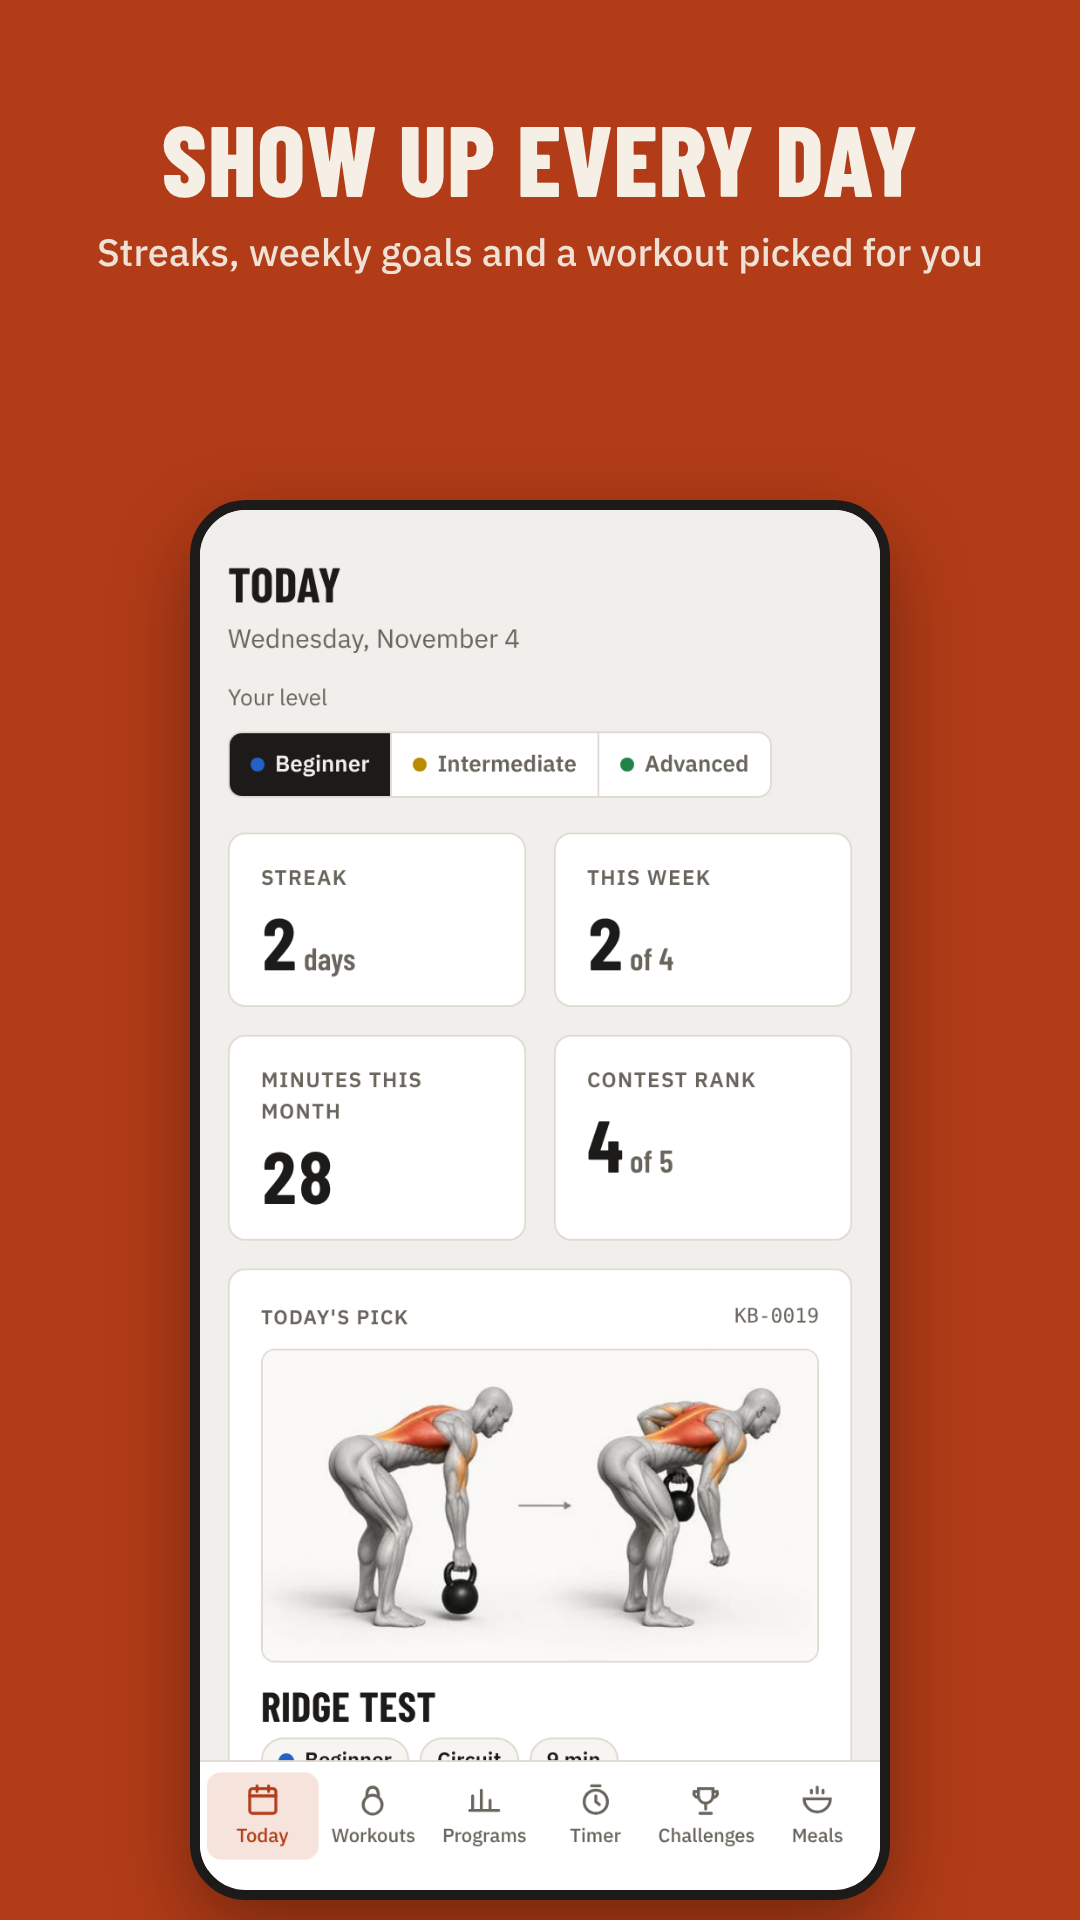
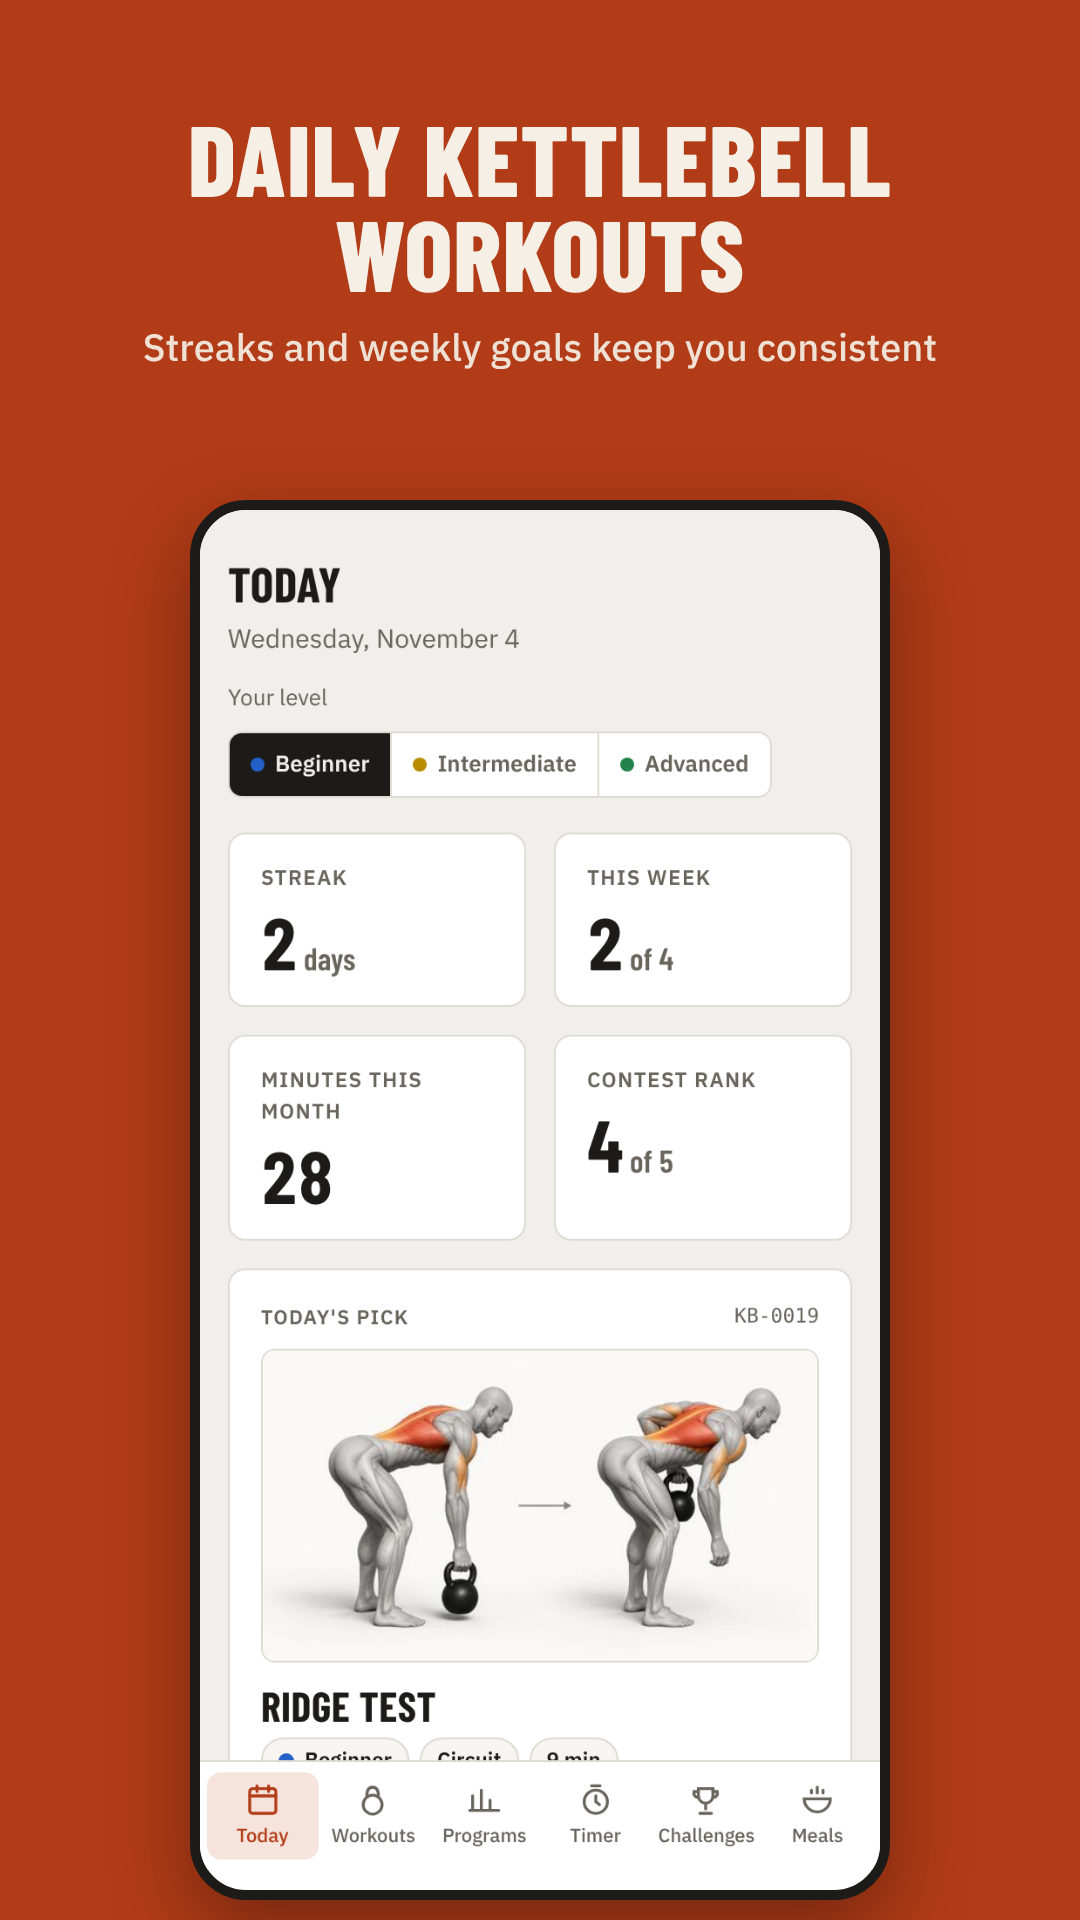
Store listing written for search, App Store copy and ranking plan
Keyword-targeted title, short and full description, search-term
screenshot headlines, App Store subtitle and keyword field, and
post-launch steps for growing search ranking.

Claude-Session: https://claude.ai/code/session_01TU5yxcE2K8n7eMQDtpSjSD

Changed region(s): [[0.0917, 0.0625, 0.9167, 0.1875]]

diff --git a/store/play/LISTING.md b/store/play/LISTING.md
@@ -1,57 +1,81 @@
 # BellForge: Google Play open testing
 
-Everything Play Console asks for to publish BellForge as a public beta (Open testing). Copy each section into the matching Play Console page.
+Everything Play Console asks for to publish BellForge as a public beta (Open testing), written for search, plus the App Store version and a plan for growing search ranking. Copy each section into the matching Play Console page.
 
 ---
 
 ## 1. Store listing (Grow users > Store presence > Main store listing)
 
-**App name** (30 max)
+Written for search. Google Play ranks apps using the **title, short description and full description**, so the main search terms appear in all three, worded naturally. Google penalizes keyword stuffing.
+
+**Target search terms**
+- **Primary:** kettlebell workout, kettlebell workouts, kettlebell
+- **Secondary:** home workout, kettlebell workout plan, workout timer, strength training
+- **Long-tail (less competition, where a new app can rank):** kettlebell muscle map, HIIT timer, EMOM, AMRAP, kettlebell swing, Turkish get-up, kettlebell challenge, fitness challenge with friends, beginner kettlebell, calisthenics, bodyweight workout, meal plan
+
+**App name** (30 max, the strongest ranking signal)
 ```
 BellForge: Kettlebell Workouts
 ```
 
-**Short description** (80 max)
+**Short description** (80 max, the second strongest signal)
 ```
-Kettlebell workouts with muscle maps, a guided timer and friend challenges.
+Kettlebell home workouts with muscle maps, a HIIT timer & fitness challenges
 ```
 
-**Full description** (4,000 max)
+**Full description** (4,000 max, fully indexed on Google Play)
 ```
-BellForge is a kettlebell training app built around one idea: show up, train well, and keep each other accountable.
+KETTLEBELL WORKOUTS FOR HOME, WITH A MUSCLE MAP FOR EVERY EXERCISE
 
-SEE EVERY MUSCLE YOU WORK
-Every move comes with a muscle map that highlights the primary and supporting muscles, plus form cues and the most common mistakes to avoid. 48 moves in all, from the deadlift and swing to the Turkish get-up, snatch and clean & jerk.
+BellForge is a kettlebell workout app for strength training at home or in the gym. Follow a kettlebell workout plan, time every session with a built-in HIIT timer, see exactly which muscles each move works, and stay accountable with fitness challenges you do with friends.
 
-200 KETTLEBELL WORKOUTS
-Beginner, intermediate and advanced sessions in six formats: circuits, EMOMs, AMRAPs, ladders, Tabatas and complexes. Filter by level, focus, length and equipment, and save your favorites for offline use.
+MUSCLE MAP FOR EVERY EXERCISE
+Every kettlebell exercise comes with a muscle map that highlights the primary and supporting muscles worked, plus form cues and the most common mistakes to avoid. Learn the kettlebell swing, goblet squat, deadlift, clean, press, snatch, Turkish get-up, windmill and more: 48 moves with clear muscle maps.
 
-A GUIDED SESSION TIMER
-Start any workout and BellForge walks you through it step by step: work and rest phases, audio countdowns, round tracking and the muscle map for the move you're on.
+200 KETTLEBELL WORKOUTS, BEGINNER TO ADVANCED
+Beginner kettlebell workouts, intermediate sessions and advanced kettlebell training, all in one library. Choose full body workouts, lower body, upper body, core or conditioning, in six formats: circuits, EMOM, AMRAP, ladders, Tabata and kettlebell complexes. Filter by level, focus, length and equipment, and save workouts for offline training.
 
-PROGRAMS THAT BUILD
-Follow a multi-week plan that gets harder week by week: Beginner Foundations, Swing to Snatch, Strength Builder, Conditioning Engine, Get-Up & Core and Advanced Iron.
+HIIT, EMOM & AMRAP WORKOUT TIMER
+Start any kettlebell workout and the guided workout timer walks you through it: work and rest intervals, audio countdowns, round tracking for AMRAPs, and the muscle map for the exercise you're on. Build your own interval timer for swings or any move.
 
-CHALLENGE YOUR FRIENDS
-Pick from 55 ready-made challenges, or build your own. Rank by sessions, minutes, streaks, team totals, weekends or specific moves, then invite friends and keep score together.
+KETTLEBELL WORKOUT PLANS AND PROGRAMS
+Follow a multi-week kettlebell program that gets harder week by week:
+- Beginner Foundations (4 weeks)
+- Swing to Snatch (6 weeks)
+- Strength Builder (8 weeks)
+- Conditioning Engine for fat loss (4 weeks)
+- Get-Up & Core (4 weeks)
+- Advanced Iron (8 weeks)
 
-NO BELL? NO PROBLEM
-A bonus library of 100 bodyweight workouts and 3 bodyweight programs, including Travel Training and First Pull-Up, keeps your streak alive on days without your kettlebell. Every move works with things you already have at home.
+FITNESS CHALLENGES WITH FRIENDS
+Accountability makes training stick. Pick from 55 ready-made fitness challenges, or build your own: most sessions, most minutes, longest streak, team totals, weekend warrior, or skill challenges like the Get-Up Ladder and Swing Specialist. Invite friends, track the leaderboard and keep each other consistent with streaks and weekly goals.
 
-MEAL PLANS FOR YOUR GOAL
-Set your goal and stats to get daily calorie and protein targets, then build a week of prepped meals that fits your diet and allergies. Monthly meal delivery is coming soon.
+BODYWEIGHT & CALISTHENICS BONUS
+No kettlebell today? 100 bodyweight workouts and calisthenics programs keep your streak alive: push-ups, squats, planks, burpees, pistol squats, pull-ups and more, plus Travel Training and First Pull-Up programs. Every move works with a chair, couch, table or wall at home.
 
-GEAR SHOP
-Need a kettlebell, pull-up bar or mat? Find the basics right in the app.
+MEAL PLAN & MACRO TARGETS
+Set your goal (lose fat, maintain or build muscle) to get daily calorie and protein targets, then build a weekly meal plan that fits your diet and allergies. Monthly prepped-meal delivery is coming soon.
 
-BETA NOTE
-BellForge is in public beta. Your workouts and progress are saved on your device. Friends, leaderboards and meal delivery use sample data while we build accounts and syncing. We'd love your feedback: tell us what's confusing, what's missing and what you'd pay for.
+GEAR GUIDE
+New to kettlebell training? Find the right kettlebell weight to start with, plus a pull-up bar, mat and other basics.
 
-Always warm up, use a weight you can control with good form, and talk to your doctor before starting a new training program.
+WHY BELLFORGE
+- Kettlebell workouts at home with just one bell
+- A muscle map for every exercise
+- Kettlebell workout plans that progress
+- HIIT, EMOM, AMRAP and Tabata workout timer
+- Fitness challenges and streaks with friends
+- Bodyweight and calisthenics workouts when you don't have a bell
+- Works offline, with no ads
+
+PUBLIC BETA
+BellForge is in public beta. Your workouts and progress are saved on your device. Friends, leaderboards and meal delivery use sample data while we build accounts and syncing. Tell us what you'd like next; your feedback shapes the app.
+
+Always warm up, use a kettlebell weight you can control with good form, and check with your doctor before starting a new training program.
 ```
 
 **App category:** Health & Fitness
-**Tags:** Fitness, Workout, Strength training (pick from Play's list)
+**Tags:** Play lets you pick up to 5 tags from its own list (under **Store settings > Tags**). Choose the closest matches to: Workout, Strength training, Home workout, HIIT and Personal trainer.
 **Contact email:** michael.valente@quant-design.com
 **Website:** optional (leave blank if you don't have one yet)
 **Privacy policy URL:** see section 3
@@ -136,6 +160,53 @@ Both stores require a public URL. The policy is at `docs/privacy-policy.html` in
 - The app does not diagnose, treat or provide medical advice.
 
 **Government apps, financial features, news:** No.
+
+---
+
+## 5. Apple App Store listing (for the iOS release)
+
+Apple ranks on the **app name, subtitle, keyword field and screenshot text**, but not the description. Apple combines words across these fields, so don't repeat a word in two of them.
+
+**App name** (30)
+```
+BellForge: Kettlebell Workouts
+```
+
+**Subtitle** (30)
+```
+Home Workout Plans & Timer
+```
+
+**Keywords** (100, comma-separated, no spaces, no words already in the name or subtitle)
+```
+swing,hiit,emom,amrap,strength,training,muscle,map,calisthenics,bodyweight,challenge,program,kb
+```
+
+**Promotional text** (170, can be changed any time without review)
+```
+Public beta: 200 kettlebell workouts, muscle maps for every exercise, a HIIT timer and 55 fitness challenges to do with friends.
+```
+
+**Description:** use the Google Play full description above.
+
+**Category:** Health & Fitness (primary), Sports (secondary)
+
+**Screenshots:** the same 8 files. Each headline is written around a search term ("Muscle map for every exercise", "HIIT, EMOM & AMRAP timer", "Fitness challenges with friends"), because Apple now reads screenshot text for search. iPhone screenshots need the 6.9-inch size (1320×2868 or 1290×2796); ask Claude to export that size when you're ready for iOS.
+
+---
+
+## 6. Growing search ranking after launch
+
+A new app has no reviews or download history, which both stores weigh heavily. These are the levers you control:
+
+1. **Ratings and reviews.** Review text is indexed on Google Play, so reviews that say "kettlebell" and "timer" help ranking. Add an in-app review prompt (Google Play In-App Review / Apple's review request) after a user finishes their 3rd workout, when they're happiest. *(Not built yet. Ask Claude to add it.)*
+2. **Reply to every review.** Replies are indexed on Google Play too. Answer naturally, for example: "Glad the kettlebell swing timer helps!"
+3. **Install velocity.** Downloads in a short window lift ranking. Line up your tester recruiting (Reddit, Facebook groups, gyms) to land in the same week the beta goes live, not spread over a month.
+4. **Retention and stability.** Google weighs crash rate and how many users keep the app. Fix crashes first; streaks and challenges help people come back.
+5. **Update every 2–4 weeks.** Regular updates signal an active app. Change the release notes each time and mention new workouts or challenges.
+6. **English variants.** Add **English (United Kingdom)**, **English (Australia)** and **English (Canada)** listings with the same text (Store presence > Manage translations). This is a quick way to show up properly in those countries.
+7. **Store listing experiments.** Once you have a few hundred visitors a week, A/B test the icon, first screenshot and short description under **Grow users > Store listing experiments**.
+8. **Promo content.** After launch, use Play's **Promotional content** (and Apple's In-App Events) for seasonal challenges, such as a "New Year Kettlebell Challenge". These show up in search and browse.
 
 ---
 
